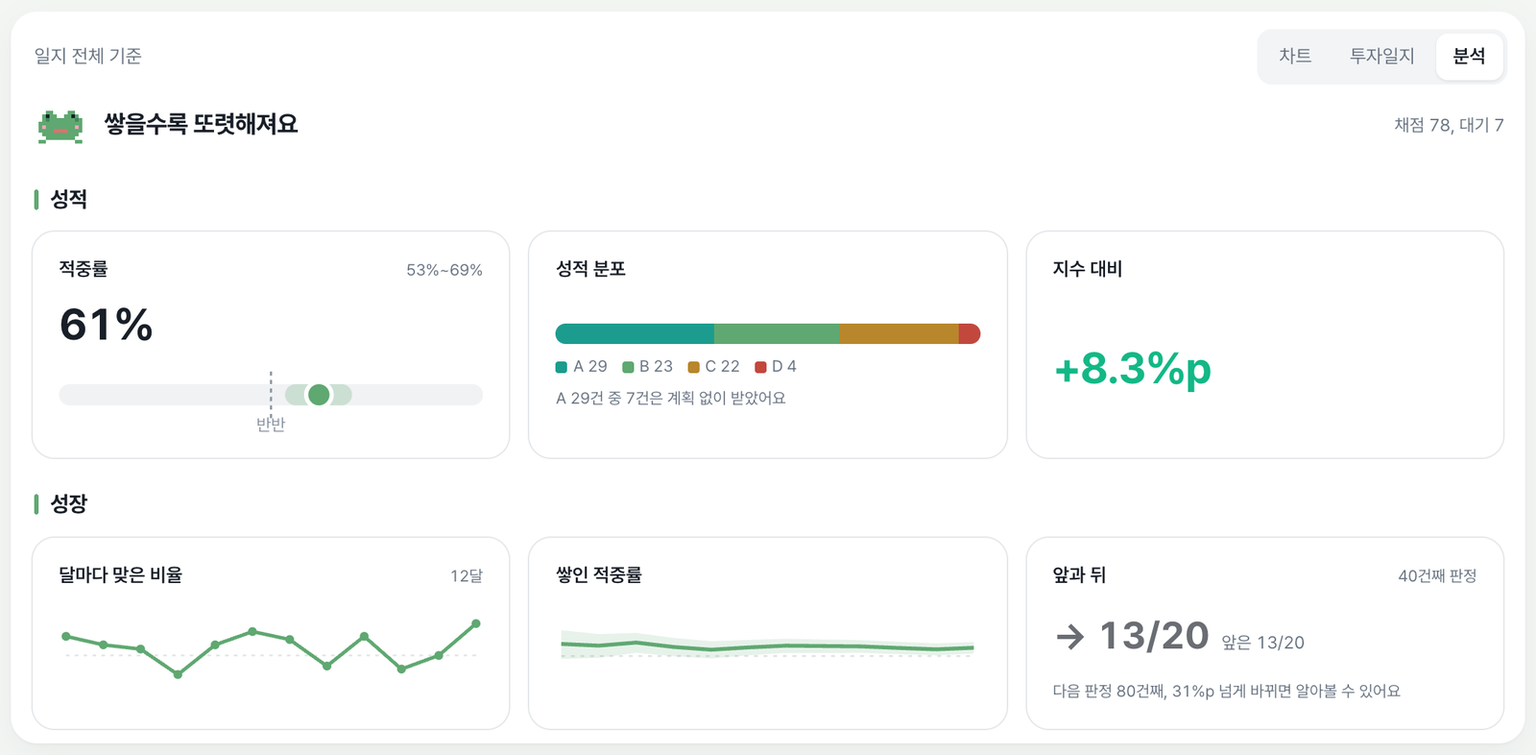
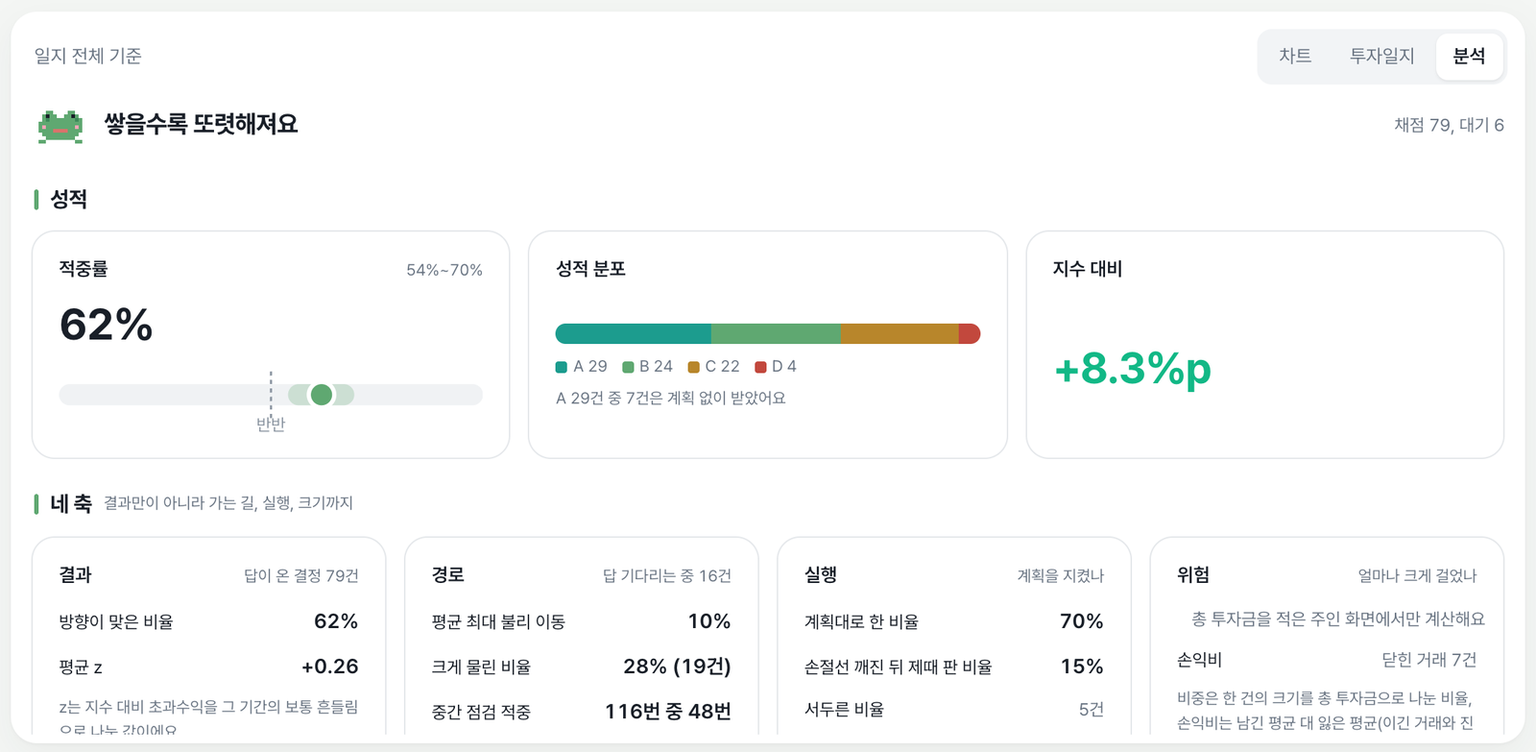
AI 분류를 표 맨 앞으로, Frog log 상세페이지에 모델 구축 섹션 추가, 무효 수치 교체

diff --git a/docs/index.html b/docs/index.html
@@ -509,6 +509,51 @@ body[data-view="frog"] .back:hover{color:#3e8a5a;}
 .fv .item h4{font-family:var(--pix);font-weight:700;}
 .fv .item strong{color:#3e8a5a;}
 body[data-view="frog"] footer{border-top-color:#dfe6e0;}
+/* Frog log 모델 구축 도식 */
+.fsec{margin-top:var(--s16);}
+.fsec > .fh{font-family:var(--pix);font-weight:700;font-size:26px;color:#191f28;letter-spacing:0;line-height:1.35;margin:0 0 var(--s2);}
+.fsec > .fsub{color:var(--g600);margin:0 0 var(--s6);font-size:15.5px;}
+.farch{display:grid;gap:10px;}
+.farch > div{display:grid;grid-template-columns:44px 170px 1fr;align-items:center;gap:var(--s4);
+  background:#fff;border:2px solid #dfe6e0;border-radius:12px;padding:14px 18px;box-shadow:0 3px 0 #e3ebe4;position:relative;}
+.farch > div + div::before{content:"";position:absolute;left:39px;top:-12px;width:2px;height:12px;background:#b9cfbf;}
+.farch .n{font-family:var(--pix);font-weight:700;font-size:15px;color:#fff;background:#5fa871;border-radius:8px;
+  width:36px;height:36px;display:flex;align-items:center;justify-content:center;box-shadow:0 3px 0 #3e8a5a;}
+.farch .t{font-weight:800;color:#191f28;font-size:16px;line-height:1.35;}
+.farch .t small{display:block;font-weight:600;color:#3e8a5a;font-size:12px;margin-top:2px;}
+.farch .d{color:var(--g700);font-size:14.5px;line-height:1.6;}
+.farch .d b{color:#191f28;}
+.fspec{width:100%;border-collapse:separate;border-spacing:0;background:#fff;border:2px solid #dfe6e0;border-radius:12px;overflow:hidden;font-size:14px;}
+.fspec th{background:#e8f3ec;color:#3e8a5a;text-align:left;font-weight:800;padding:11px 14px;font-size:13px;}
+.fspec td{padding:12px 14px;border-top:1px solid #edf2ee;color:var(--g700);vertical-align:top;line-height:1.55;}
+.fspec td:first-child{font-weight:800;color:#191f28;white-space:nowrap;}
+.fspec code{font-family:var(--mono);font-size:12px;background:#f4f6f4;color:#3e8a5a;padding:1px 6px;border-radius:5px;}
+.fwrap{overflow-x:auto;}
+.fproc{display:grid;grid-template-columns:repeat(auto-fit,minmax(150px,1fr));gap:10px;counter-reset:fp;}
+.fproc > div{background:#fff;border:2px solid #dfe6e0;border-radius:12px;padding:14px 16px;counter-increment:fp;}
+.fproc > div::before{content:counter(fp,decimal-leading-zero);display:block;font-family:var(--pix);font-weight:700;color:#5fa871;font-size:14px;margin-bottom:6px;}
+.fproc b{display:block;color:#191f28;font-size:15px;margin-bottom:4px;}
+.fproc span{display:block;color:var(--g600);font-size:13px;line-height:1.5;}
+.fbar{display:grid;gap:12px;}
+.fbar > div{display:grid;grid-template-columns:200px 1fr;gap:var(--s4);align-items:center;font-size:14px;}
+.fbar .lab{color:var(--g700);font-weight:600;line-height:1.4;}
+.fbar .lab small{display:block;color:var(--g500);font-weight:500;font-size:12px;}
+.fbar .fb-tr{display:grid;gap:5px;}
+.fbar .fb-row{display:grid;grid-template-columns:1fr 64px;align-items:center;gap:10px;}
+.fbar .fb-bx{height:14px;border-radius:4px;background:#f0f2f0;overflow:hidden;}
+.fbar .fb-bx i{display:block;height:100%;border-radius:4px;}
+.fbar .bef i{background:#d9736b;} .fbar .aft i{background:#5fa871;}
+.fbar .fb-row em{font-style:normal;font-weight:800;font-size:13px;text-align:right;font-variant-numeric:tabular-nums;}
+.fbar .bef em{color:#b25650;} .fbar .aft em{color:#3e8a5a;}
+.flegend{display:flex;gap:var(--s4);font-size:12.5px;color:var(--g600);margin-top:var(--s3);}
+.flegend i{display:inline-block;width:10px;height:10px;border-radius:3px;margin-right:6px;vertical-align:-1px;}
+.fref{display:flex;flex-wrap:wrap;gap:8px;margin-top:var(--s4);}
+.fref span{font-size:12.5px;color:#3e8a5a;background:#e8f3ec;border-radius:999px;padding:5px 12px;font-weight:600;}
+@media (max-width:720px){
+  .farch > div{grid-template-columns:40px 1fr;}
+  .farch .d{grid-column:1 / -1;}
+  .fbar > div{grid-template-columns:1fr;}
+}
 @media print{.fshot .fframe{box-shadow:none;}}
 
 .gv{position:relative;}
@@ -903,16 +948,22 @@ body.printing #v-codex{background:#0d0d0e;color:#d7d3cc;}
       <span class="lab">전체 프로젝트<em>마케팅부터 직접 만든 도구까지</em></span>
       <div class="flt" role="tablist">
         <button class="on" data-cat="all">전체 (20)</button>
+        <button data-cat="ai">AI (7)</button>
         <button data-cat="mkt">Marketing (8)</button>
         <button data-cat="op">Operation (3)</button>
         <button data-cat="evt">Event (1)</button>
         <button data-cat="dt">Data (1)</button>
-        <button data-cat="ai">AI (7)</button>
       </div>
       <div class="tw rise">
         <table class="plist">
           <thead><tr><th>프로젝트</th><th>분류</th><th>요약</th></tr></thead>
           <tbody>
+            <tr data-cat="ai" data-link="#/frog"><td class="k">투자 일지 서비스 (Frog log)</td><td><span class="pc ai">AI</span></td><td>마음까지 적는 투자 일지, 차트/일지/분석 화면 제공</td></tr>
+            <tr data-cat="ai" data-link="#/game"><td class="k">히스토리 판타지 리그</td><td><span class="pc ai">AI</span></td><td>웹게임 1인 제작, 인물 611명, 검사기 53개</td></tr>
+            <tr data-cat="ai" data-link="#/tools"><td class="k">마케팅 데이터 도구</td><td><span class="pc ai">AI</span></td><td>트윗 수집부터 검증까지 주간 7단계 자동화</td></tr>
+            <tr data-cat="ai" data-link="#/net"><td class="k">팀 운영 인트라넷</td><td><span class="pc ai">AI</span></td><td>화면 13개, 접근 정책 84개, 역할 3종 권한</td></tr>
+            <tr data-cat="ai" data-link="#/codex"><td class="k">Codex 플러그인 3종</td><td><span class="pc ai">AI</span></td><td>기업별 실무 도구 3종, 공개 자료만으로 문제 정의</td></tr>
+            <tr data-cat="ai" data-link="#/hub"><td class="k">AI 작업 관리 대시보드</td><td><span class="pc ai">AI</span></td><td>작업 기록 자동 수집, 24시간 무인 갱신</td></tr>
             <tr data-cat="mkt" data-link="#/case-auction"><td class="k">런칭 경매 캠페인</td><td><span class="pc mkt">Marketing</span></td><td>비공개 입찰로 가격 기준선을 세운 뒤 공개 판매, 단일 매출 46억</td></tr>
             <tr data-cat="mkt" data-link="#/career"><td class="k">토큰 KOL 캠페인</td><td><span class="pc mkt">Marketing</span></td><td>회차 단위 테스트로 KOL 믹스 최적화, 코드 사용률 94%</td></tr>
             <tr data-cat="mkt" data-link="#/case-minini"><td class="k">게임 연계 캠페인</td><td><span class="pc mkt">Marketing</span></td><td>인앱 유입 동선 설계로 글로벌 500만, 최종 전환 50만</td></tr>
@@ -926,12 +977,6 @@ body.printing #v-codex{background:#0d0d0e;color:#d7d3cc;}
             <tr data-cat="op" data-link="#/career"><td class="k">커뮤니티 구축과 운영</td><td><span class="pc op">Operation</span></td><td>X 5개 외에도 디스코드/텔레그램 커뮤니티 운영 및 설계</td></tr>
             <tr data-cat="evt" data-link="#/career"><td class="k">오프라인 행사 3년 연속 기획</td><td><span class="pc evt">Event</span></td><td>3년 연속 자체 기획, 현장 참여 데이터 16K 확보</td></tr>
             <tr data-cat="dt" data-link="#/tools"><td class="k">측정 환경 구축</td><td><span class="pc dt">Data</span></td><td>Redash와 GA 추적 설계, 캠페인별 UTM 체계</td></tr>
-            <tr data-cat="ai" data-link="#/frog"><td class="k">투자 일지 서비스 (Frog log)</td><td><span class="pc ai">AI</span></td><td>마음까지 적는 투자 일지, 차트/일지/분석 화면 제공</td></tr>
-            <tr data-cat="ai" data-link="#/game"><td class="k">히스토리 판타지 리그</td><td><span class="pc ai">AI</span></td><td>웹게임 1인 제작, 인물 611명, 검사기 53개</td></tr>
-            <tr data-cat="ai" data-link="#/tools"><td class="k">마케팅 데이터 도구</td><td><span class="pc ai">AI</span></td><td>트윗 수집부터 검증까지 주간 7단계 자동화</td></tr>
-            <tr data-cat="ai" data-link="#/net"><td class="k">팀 운영 인트라넷</td><td><span class="pc ai">AI</span></td><td>화면 13개, 접근 정책 84개, 역할 3종 권한</td></tr>
-            <tr data-cat="ai" data-link="#/codex"><td class="k">Codex 플러그인 3종</td><td><span class="pc ai">AI</span></td><td>기업별 실무 도구 3종, 공개 자료만으로 문제 정의</td></tr>
-            <tr data-cat="ai" data-link="#/hub"><td class="k">AI 작업 관리 대시보드</td><td><span class="pc ai">AI</span></td><td>작업 기록 자동 수집, 24시간 무인 갱신</td></tr>
             </tbody>
         </table>
       </div>
@@ -1366,7 +1411,7 @@ body.printing #v-codex{background:#0d0d0e;color:#d7d3cc;}
     <img class="mascots" src="assets/frog-mascots.png" alt="마음에 따라 옷이 바뀌는 청개구리 마스코트 10종">
     <span class="kk"><i></i>해커톤 출품작, 2026</span>
     <h2>투자 일지 서비스 <em>(Frog log)</em></h2>
-    <p class="intro" style="color:var(--g600);max-width:56ch;">투자자는 자기 감정이 수익을 얼마나 깎는지 모릅니다. 마음을 한 줄로 적으면 시장이 사후에 채점하고, 쌓인 기록으로 <strong>나를 하나의 전략처럼 검증</strong>합니다. 기획부터 배포까지 혼자 만들었습니다.</p>
+    <p class="intro" style="color:var(--g600);max-width:58ch;">투자자는 자기 감정이 수익을 얼마나 깎는지 모릅니다. 마음을 한 줄로 적으면 시장이 사후에 채점하고, 쌓인 기록으로 <strong>나를 하나의 전략처럼 검증</strong>합니다. 기획, 분석 모델, 화면, 배포까지 혼자 만들었습니다.</p>
 
     <div class="fshots">
       <div class="fshot rise">
@@ -1381,7 +1426,7 @@ body.printing #v-codex{background:#0d0d0e;color:#d7d3cc;}
       </div>
       <div class="fshot rise">
         <h3 class="ftag">분석</h3>
-        <p>적중률, 성적 분포, 지수 대비, 성장 흐름을 봅니다. 기록이 충분히 쌓였을 때만 판정을 말합니다.</p>
+        <p>적중률과 지수 대비 성적에 더해 결과, 경로, 실행, 위험 네 축으로 결정을 나눠 봅니다. 기록이 충분할 때만 판정을 말합니다.</p>
         <div class="fframe"><img src="assets/frog-analysis.png" alt="분석 화면"></div>
       </div>
     </div>
@@ -1396,15 +1441,82 @@ body.printing #v-codex{background:#0d0d0e;color:#d7d3cc;}
       <p>결정하는 날 한 줄만 적게 하면 마음이 편집되기 전에 남습니다. 채점을 내가 아니라 시장이 하면 자기 합리화가 끼어들 틈이 없습니다. 그래서 입력은 <strong>한 줄</strong>로 줄이고, 채점은 <strong>보유기간이 끝난 뒤 시세와 지수</strong>로 하게 했습니다. 계획을 적어두면 기다리던 가격이 실제로 왔는지도 시세로 판정합니다.</p>
     </div>
 
-    <div class="item rise">
-      <h4>검증</h4>
-      <p>가장 경계한 건 통계가 우연을 경향이라고 말하는 일이었습니다. 아무 의미 없는 무작위 기록 960건을 넣자 "경향"이라는 말이 10.2% 나왔습니다. 칸마다 20건이 모이기 전엔 건수만 보여주고, 여러 칸을 한꺼번에 볼 때 생기는 착각까지 보정해 <strong>1.5%로</strong> 낮췄습니다.</p>
-      <div class="fsteps nb rise">
-        <div><b>0곳</b><span class="fl-t">판정을 멈추는 앱</span><span class="fl-d">조사한 매매일지 앱 7곳 중 기록이 모자라면 결론을 보류하는 곳</span></div>
-        <div><b>20건</b><span class="fl-t">판정 시작</span><span class="fl-d">그 전까지는 건수만 보여주고 결론을 말하지 않습니다</span></div>
-        <div><b>1.5%</b><span class="fl-t">거짓 경향</span><span class="fl-d">무작위 기록 960건 기준. 고치기 전 10.2%</span></div>
+    <!-- 모델 구축 -->
+    <section class="fsec rise">
+      <h3 class="fh">분석 모델은 이렇게 만들었습니다</h3>
+      <p class="fsub">사용자 화면 뒤에서 외부 AI를 부르지 않습니다. 해석, 채점, 분석을 전부 <strong>규칙과 통계로 직접 설계</strong>했고, Claude Code는 설계, 리서치, 구현, 검토 도구로 썼습니다.</p>
+      <div class="fproc">
+        <div><b>문제 정렬</b><span>만들기 전에 제품 문장, 범위, 성공 기준을 설계 문서로 먼저 고정</span></div>
+        <div><b>리서치 22건</b><span>데이터 소스, 채점식, 행동 재무 논문, 경쟁 앱을 1차 출처로 조사</span></div>
+        <div><b>수식 대조</b><span>논문 원문 수식과 한 줄씩 맞추고 스크립트로 다시 계산</span></div>
+        <div><b>구현과 시험</b><span>모델마다 정답 대조 시험을 붙여 679개 시험이 계산을 지킴</span></div>
+        <div><b>반박 검토</b><span>만든 쪽과 다른 방식으로 결함을 찾는 반박자 검토를 반영한 커밋 18개</span></div>
       </div>
-    </div>
+    </section>
+
+    <section class="fsec rise">
+      <h3 class="fh">엔진 흐름 6단계</h3>
+      <p class="fsub">한 줄 기록이 들어와서 문장 하나가 나가기까지의 흐름입니다.</p>
+      <div class="farch">
+        <div><span class="n">1</span><span class="t">해석<small>규칙 파서</small></span><span class="d">한국어 한 줄에서 종목, 행동, 날짜, 가격, 수량, 보유기간, 목표가와 손절가, 계획성, <b>마음 56개 낱말</b>을 강도까지 뽑습니다.</span></div>
+        <div><span class="n">2</span><span class="t">채점<small>시장이 매기는 성적</small></span><span class="d">사용자가 정한 보유기간을 창으로 삼아 <b>지수 대비 초과수익을 변동성으로 나눈 z</b>로 채점합니다. 평균단가 장부로 매수와 매도를 짝짓고, 결과와 계획 준수를 나눠 A부터 D까지 매깁니다.</span></div>
+        <div><span class="n">3</span><span class="t">행동<small>매매 성격</small></span><span class="d">추격매수, 패닉매도, 처분효과, 손실 뒤 과열(틸트), 감정별 매수 크기, 마음과 행동 교차표, 마음 습관 6축을 봅니다.</span></div>
+        <div><span class="n">4</span><span class="t">성과<small>퀀트 지표</small></span><span class="d">창 길이가 제각각인 기록을 한 눈금으로 맞춘 뒤 <b>샤프, 소르티노, 알파와 베타, 최대 낙폭</b>을 냅니다. 창이 겹치는 만큼 유효 표본을 줄여 계산합니다.</span></div>
+        <div><span class="n">5</span><span class="t">성장<small>나아지고 있나</small></span><span class="d">기록이 20, 40, 80건처럼 두 배가 되는 시점에만 앞 절반과 뒤 절반을 비교합니다. 매번 들여다보면 우연이 성장처럼 보이기 때문입니다.</span></div>
+        <div><span class="n">6</span><span class="t">표현<small>말해도 되는 것만</small></span><span class="d">통계 기준을 넘을 때만 문장이 나옵니다. 그 전엔 "10번 중 7번"처럼 건수만 보여주고, 지시하는 말투는 시험으로 막습니다.</span></div>
+      </div>
+    </section>
+
+    <section class="fsec rise">
+      <h3 class="fh">모델 세 겹</h3>
+      <p class="fsub">기록이 적은 첫날부터 쓸 수 있어야 하고, 기록이 쌓일수록 그 사람에게 맞춰져야 합니다.</p>
+      <div class="fproc">
+        <div><b>규칙</b><span>논문과 시장 수치로 정한 기준값. 기록 1건부터 작동</span></div>
+        <div><b>통계</b><span>사람마다 사후분포를 갱신. 오래된 기록은 조금씩 덜 반영</span></div>
+        <div><b>학습</b><span>사용자 능력과 계획 난이도를 함께 추정하는 모델. 야간에만 돌고, 승격 심판을 통과하기 전엔 화면에 나가지 않음</span></div>
+      </div>
+      <div class="fwrap" style="margin-top:var(--s6);">
+        <table class="fspec">
+          <thead><tr><th>모델</th><th>방법</th><th>근거</th></tr></thead>
+          <tbody>
+            <tr><td>적중률</td><td>표본이 적으면 반반에서 출발하는 <code>Beta(2,2)</code> 사전분포와 80% 구간. 3건 미만 숨김, 10건부터 경향</td><td>Agresti &amp; Coull 1998</td></tr>
+            <tr><td>처분효과</td><td>평균단가 기준으로 이익 매도 비율과 손실 매도 비율의 차이</td><td>Odean 1998</td></tr>
+            <tr><td>과다거래</td><td>월별 결정 수와 성과의 관계</td><td>Barber &amp; Odean 2000</td></tr>
+            <tr><td>샤프 신뢰도</td><td>표준오차 보정과 확률적 샤프로 "참고용, 경향, 뚜렷" 구분</td><td>Lo 2002, Bailey &amp; López de Prado 2012</td></tr>
+            <tr><td>소르티노</td><td>하방편차 분모를 전체 표본으로</td><td>Sortino &amp; van der Meer</td></tr>
+            <tr><td>마음과 행동</td><td>20건 이상 칸만 후보, 거짓발견율 <code>q=0.02</code>, 효과 0.15 이상일 때만 발화</td><td>Benjamini &amp; Hochberg</td></tr>
+            <tr><td>성장 판정</td><td>판정 시점 8번 전체의 거짓 경보를 5%로 맞춘 문턱 <code>z=2.74</code></td><td>몬테카를로 보정</td></tr>
+            <tr><td>개인화</td><td>기록 적은 마음 칸은 전체 평균 쪽으로 당기는 부분 풀링</td><td>Gelman BDA3</td></tr>
+            <tr><td>학습 모델 승격</td><td>홀드아웃 50명, 450건 이상에서 로그손실 개선과 보정 유지. 통과해도 사람이 검토한 뒤 전환</td><td>Riley 2019</td></tr>
+          </tbody>
+        </table>
+      </div>
+    </section>
+
+    <section class="fsec rise">
+      <h3 class="fh">검증: 틀린 말을 하지 않도록</h3>
+      <p class="fsub">가장 경계한 건 통계가 우연을 경향이라고 말하는 일이었습니다. 아무 의미 없는 무작위 기록을 1,500번씩 넣어, <strong>"경향"이라는 말이 6%를 넘게 나오면 시험이 실패하도록</strong> 걸어 두었습니다.</p>
+      <div class="fbar">
+        <div><span class="lab">무작위 기록 960건<small>마음과 행동 교차표</small></span>
+          <span class="fb-tr">
+            <span class="fb-row bef"><span class="fb-bx"><i style="width:67%"></i></span><em>6.7%</em></span>
+            <span class="fb-row aft"><span class="fb-bx"><i style="width:34%"></i></span><em>3.4%</em></span>
+          </span></div>
+      </div>
+      <div class="flegend"><span><i style="background:#d9736b"></i>거짓발견율 기준 0.05</span><span><i style="background:#5fa871"></i>0.02로 조인 뒤</span><span>막대 끝 = 10%</span></div>
+      <div class="fsteps nb rise" style="margin-top:var(--s8);">
+        <div><b>0~4%</b><span class="fl-t">거짓 경향</span><span class="fl-d">무작위 기록 240건부터 1,920건까지, 오늘 코드로 다시 잰 값. 기준 6% 이하</span></div>
+        <div><b>20건</b><span class="fl-t">판정 시작</span><span class="fl-d">그 전까지는 건수만 보여주고 결론을 말하지 않습니다</span></div>
+        <div><b>0곳</b><span class="fl-t">판정을 멈추는 앱</span><span class="fl-d">조사한 매매일지 앱 7곳 중 기록이 모자라면 결론을 보류하는 곳</span></div>
+      </div>
+      <div class="item" style="border-bottom:0;">
+        <h4>내 시험도 의심했습니다</h4>
+        <p>다른 모델을 만들다가 <strong>시험용 난수가 같은 기록을 되풀이하는 결함</strong>을 찾았습니다. 그 결과를 무효로 돌리고 난수를 바꿔 다시 쟀고, 기준을 넘는 칸이 나와 판정 문턱을 한 단계 더 조였습니다. 학습 모델도 합성 투자자 200명으로 시험해 능력을 되찾는 정도(상관 0.854)와 80% 구간이 실제로 80% 안팎을 담는지(0.871)를 확인했고, 일부러 망친 모델은 시험에서 떨어지는지까지 봤습니다.</p>
+        <div class="fref">
+          <span>Odean 1998</span><span>Barber &amp; Odean 2000</span><span>Lo 2002</span><span>Bailey &amp; López de Prado 2012</span><span>Sortino</span><span>Agresti &amp; Coull 1998</span><span>Benjamini &amp; Hochberg</span><span>Tversky &amp; Kahneman 1992</span><span>Gelman BDA3</span><span>Riley 2019</span>
+        </div>
+      </div>
+    </section>
   </div>
   <footer><div class="wrap">전동현 / eastboy_12@naver.com</div></footer>
 </div>

diff --git a/page.src.html b/page.src.html
@@ -489,6 +489,51 @@ body[data-view="frog"] .back:hover{color:#3e8a5a;}
 .fv .item h4{font-family:var(--pix);font-weight:700;}
 .fv .item strong{color:#3e8a5a;}
 body[data-view="frog"] footer{border-top-color:#dfe6e0;}
+/* Frog log 모델 구축 도식 */
+.fsec{margin-top:var(--s16);}
+.fsec > .fh{font-family:var(--pix);font-weight:700;font-size:26px;color:#191f28;letter-spacing:0;line-height:1.35;margin:0 0 var(--s2);}
+.fsec > .fsub{color:var(--g600);margin:0 0 var(--s6);font-size:15.5px;}
+.farch{display:grid;gap:10px;}
+.farch > div{display:grid;grid-template-columns:44px 170px 1fr;align-items:center;gap:var(--s4);
+  background:#fff;border:2px solid #dfe6e0;border-radius:12px;padding:14px 18px;box-shadow:0 3px 0 #e3ebe4;position:relative;}
+.farch > div + div::before{content:"";position:absolute;left:39px;top:-12px;width:2px;height:12px;background:#b9cfbf;}
+.farch .n{font-family:var(--pix);font-weight:700;font-size:15px;color:#fff;background:#5fa871;border-radius:8px;
+  width:36px;height:36px;display:flex;align-items:center;justify-content:center;box-shadow:0 3px 0 #3e8a5a;}
+.farch .t{font-weight:800;color:#191f28;font-size:16px;line-height:1.35;}
+.farch .t small{display:block;font-weight:600;color:#3e8a5a;font-size:12px;margin-top:2px;}
+.farch .d{color:var(--g700);font-size:14.5px;line-height:1.6;}
+.farch .d b{color:#191f28;}
+.fspec{width:100%;border-collapse:separate;border-spacing:0;background:#fff;border:2px solid #dfe6e0;border-radius:12px;overflow:hidden;font-size:14px;}
+.fspec th{background:#e8f3ec;color:#3e8a5a;text-align:left;font-weight:800;padding:11px 14px;font-size:13px;}
+.fspec td{padding:12px 14px;border-top:1px solid #edf2ee;color:var(--g700);vertical-align:top;line-height:1.55;}
+.fspec td:first-child{font-weight:800;color:#191f28;white-space:nowrap;}
+.fspec code{font-family:var(--mono);font-size:12px;background:#f4f6f4;color:#3e8a5a;padding:1px 6px;border-radius:5px;}
+.fwrap{overflow-x:auto;}
+.fproc{display:grid;grid-template-columns:repeat(auto-fit,minmax(150px,1fr));gap:10px;counter-reset:fp;}
+.fproc > div{background:#fff;border:2px solid #dfe6e0;border-radius:12px;padding:14px 16px;counter-increment:fp;}
+.fproc > div::before{content:counter(fp,decimal-leading-zero);display:block;font-family:var(--pix);font-weight:700;color:#5fa871;font-size:14px;margin-bottom:6px;}
+.fproc b{display:block;color:#191f28;font-size:15px;margin-bottom:4px;}
+.fproc span{display:block;color:var(--g600);font-size:13px;line-height:1.5;}
+.fbar{display:grid;gap:12px;}
+.fbar > div{display:grid;grid-template-columns:200px 1fr;gap:var(--s4);align-items:center;font-size:14px;}
+.fbar .lab{color:var(--g700);font-weight:600;line-height:1.4;}
+.fbar .lab small{display:block;color:var(--g500);font-weight:500;font-size:12px;}
+.fbar .fb-tr{display:grid;gap:5px;}
+.fbar .fb-row{display:grid;grid-template-columns:1fr 64px;align-items:center;gap:10px;}
+.fbar .fb-bx{height:14px;border-radius:4px;background:#f0f2f0;overflow:hidden;}
+.fbar .fb-bx i{display:block;height:100%;border-radius:4px;}
+.fbar .bef i{background:#d9736b;} .fbar .aft i{background:#5fa871;}
+.fbar .fb-row em{font-style:normal;font-weight:800;font-size:13px;text-align:right;font-variant-numeric:tabular-nums;}
+.fbar .bef em{color:#b25650;} .fbar .aft em{color:#3e8a5a;}
+.flegend{display:flex;gap:var(--s4);font-size:12.5px;color:var(--g600);margin-top:var(--s3);}
+.flegend i{display:inline-block;width:10px;height:10px;border-radius:3px;margin-right:6px;vertical-align:-1px;}
+.fref{display:flex;flex-wrap:wrap;gap:8px;margin-top:var(--s4);}
+.fref span{font-size:12.5px;color:#3e8a5a;background:#e8f3ec;border-radius:999px;padding:5px 12px;font-weight:600;}
+@media (max-width:720px){
+  .farch > div{grid-template-columns:40px 1fr;}
+  .farch .d{grid-column:1 / -1;}
+  .fbar > div{grid-template-columns:1fr;}
+}
 @media print{.fshot .fframe{box-shadow:none;}}
 
 .gv{position:relative;}
@@ -883,16 +928,22 @@ body.printing #v-codex{background:#0d0d0e;color:#d7d3cc;}
       <span class="lab">전체 프로젝트<em>마케팅부터 직접 만든 도구까지</em></span>
       <div class="flt" role="tablist">
         <button class="on" data-cat="all">전체 (20)</button>
+        <button data-cat="ai">AI (7)</button>
         <button data-cat="mkt">Marketing (8)</button>
         <button data-cat="op">Operation (3)</button>
         <button data-cat="evt">Event (1)</button>
         <button data-cat="dt">Data (1)</button>
-        <button data-cat="ai">AI (7)</button>
       </div>
       <div class="tw rise">
         <table class="plist">
           <thead><tr><th>프로젝트</th><th>분류</th><th>요약</th></tr></thead>
           <tbody>
+            <tr data-cat="ai" data-link="#/frog"><td class="k">투자 일지 서비스 (Frog log)</td><td><span class="pc ai">AI</span></td><td>마음까지 적는 투자 일지, 차트/일지/분석 화면 제공</td></tr>
+            <tr data-cat="ai" data-link="#/game"><td class="k">히스토리 판타지 리그</td><td><span class="pc ai">AI</span></td><td>웹게임 1인 제작, 인물 611명, 검사기 53개</td></tr>
+            <tr data-cat="ai" data-link="#/tools"><td class="k">마케팅 데이터 도구</td><td><span class="pc ai">AI</span></td><td>트윗 수집부터 검증까지 주간 7단계 자동화</td></tr>
+            <tr data-cat="ai" data-link="#/net"><td class="k">팀 운영 인트라넷</td><td><span class="pc ai">AI</span></td><td>화면 13개, 접근 정책 84개, 역할 3종 권한</td></tr>
+            <tr data-cat="ai" data-link="#/codex"><td class="k">Codex 플러그인 3종</td><td><span class="pc ai">AI</span></td><td>기업별 실무 도구 3종, 공개 자료만으로 문제 정의</td></tr>
+            <tr data-cat="ai" data-link="#/hub"><td class="k">AI 작업 관리 대시보드</td><td><span class="pc ai">AI</span></td><td>작업 기록 자동 수집, 24시간 무인 갱신</td></tr>
             <tr data-cat="mkt" data-link="#/case-auction"><td class="k">런칭 경매 캠페인</td><td><span class="pc mkt">Marketing</span></td><td>비공개 입찰로 가격 기준선을 세운 뒤 공개 판매, 단일 매출 46억</td></tr>
             <tr data-cat="mkt" data-link="#/career"><td class="k">토큰 KOL 캠페인</td><td><span class="pc mkt">Marketing</span></td><td>회차 단위 테스트로 KOL 믹스 최적화, 코드 사용률 94%</td></tr>
             <tr data-cat="mkt" data-link="#/case-minini"><td class="k">게임 연계 캠페인</td><td><span class="pc mkt">Marketing</span></td><td>인앱 유입 동선 설계로 글로벌 500만, 최종 전환 50만</td></tr>
@@ -906,12 +957,6 @@ body.printing #v-codex{background:#0d0d0e;color:#d7d3cc;}
             <tr data-cat="op" data-link="#/career"><td class="k">커뮤니티 구축과 운영</td><td><span class="pc op">Operation</span></td><td>X 5개 외에도 디스코드/텔레그램 커뮤니티 운영 및 설계</td></tr>
             <tr data-cat="evt" data-link="#/career"><td class="k">오프라인 행사 3년 연속 기획</td><td><span class="pc evt">Event</span></td><td>3년 연속 자체 기획, 현장 참여 데이터 16K 확보</td></tr>
             <tr data-cat="dt" data-link="#/tools"><td class="k">측정 환경 구축</td><td><span class="pc dt">Data</span></td><td>Redash와 GA 추적 설계, 캠페인별 UTM 체계</td></tr>
-            <tr data-cat="ai" data-link="#/frog"><td class="k">투자 일지 서비스 (Frog log)</td><td><span class="pc ai">AI</span></td><td>마음까지 적는 투자 일지, 차트/일지/분석 화면 제공</td></tr>
-            <tr data-cat="ai" data-link="#/game"><td class="k">히스토리 판타지 리그</td><td><span class="pc ai">AI</span></td><td>웹게임 1인 제작, 인물 611명, 검사기 53개</td></tr>
-            <tr data-cat="ai" data-link="#/tools"><td class="k">마케팅 데이터 도구</td><td><span class="pc ai">AI</span></td><td>트윗 수집부터 검증까지 주간 7단계 자동화</td></tr>
-            <tr data-cat="ai" data-link="#/net"><td class="k">팀 운영 인트라넷</td><td><span class="pc ai">AI</span></td><td>화면 13개, 접근 정책 84개, 역할 3종 권한</td></tr>
-            <tr data-cat="ai" data-link="#/codex"><td class="k">Codex 플러그인 3종</td><td><span class="pc ai">AI</span></td><td>기업별 실무 도구 3종, 공개 자료만으로 문제 정의</td></tr>
-            <tr data-cat="ai" data-link="#/hub"><td class="k">AI 작업 관리 대시보드</td><td><span class="pc ai">AI</span></td><td>작업 기록 자동 수집, 24시간 무인 갱신</td></tr>
             </tbody>
         </table>
       </div>
@@ -1346,7 +1391,7 @@ body.printing #v-codex{background:#0d0d0e;color:#d7d3cc;}
     <img class="mascots" src="__IMG_FROGM__" alt="마음에 따라 옷이 바뀌는 청개구리 마스코트 10종">
     <span class="kk"><i></i>해커톤 출품작, 2026</span>
     <h2>투자 일지 서비스 <em>(Frog log)</em></h2>
-    <p class="intro" style="color:var(--g600);max-width:56ch;">투자자는 자기 감정이 수익을 얼마나 깎는지 모릅니다. 마음을 한 줄로 적으면 시장이 사후에 채점하고, 쌓인 기록으로 <strong>나를 하나의 전략처럼 검증</strong>합니다. 기획부터 배포까지 혼자 만들었습니다.</p>
+    <p class="intro" style="color:var(--g600);max-width:58ch;">투자자는 자기 감정이 수익을 얼마나 깎는지 모릅니다. 마음을 한 줄로 적으면 시장이 사후에 채점하고, 쌓인 기록으로 <strong>나를 하나의 전략처럼 검증</strong>합니다. 기획, 분석 모델, 화면, 배포까지 혼자 만들었습니다.</p>
 
     <div class="fshots">
       <div class="fshot rise">
@@ -1361,7 +1406,7 @@ body.printing #v-codex{background:#0d0d0e;color:#d7d3cc;}
       </div>
       <div class="fshot rise">
         <h3 class="ftag">분석</h3>
-        <p>적중률, 성적 분포, 지수 대비, 성장 흐름을 봅니다. 기록이 충분히 쌓였을 때만 판정을 말합니다.</p>
+        <p>적중률과 지수 대비 성적에 더해 결과, 경로, 실행, 위험 네 축으로 결정을 나눠 봅니다. 기록이 충분할 때만 판정을 말합니다.</p>
         <div class="fframe"><img src="__IMG_FROGA__" alt="분석 화면"></div>
       </div>
     </div>
@@ -1376,15 +1421,82 @@ body.printing #v-codex{background:#0d0d0e;color:#d7d3cc;}
       <p>결정하는 날 한 줄만 적게 하면 마음이 편집되기 전에 남습니다. 채점을 내가 아니라 시장이 하면 자기 합리화가 끼어들 틈이 없습니다. 그래서 입력은 <strong>한 줄</strong>로 줄이고, 채점은 <strong>보유기간이 끝난 뒤 시세와 지수</strong>로 하게 했습니다. 계획을 적어두면 기다리던 가격이 실제로 왔는지도 시세로 판정합니다.</p>
     </div>
 
-    <div class="item rise">
-      <h4>검증</h4>
-      <p>가장 경계한 건 통계가 우연을 경향이라고 말하는 일이었습니다. 아무 의미 없는 무작위 기록 960건을 넣자 "경향"이라는 말이 10.2% 나왔습니다. 칸마다 20건이 모이기 전엔 건수만 보여주고, 여러 칸을 한꺼번에 볼 때 생기는 착각까지 보정해 <strong>1.5%로</strong> 낮췄습니다.</p>
-      <div class="fsteps nb rise">
-        <div><b>0곳</b><span class="fl-t">판정을 멈추는 앱</span><span class="fl-d">조사한 매매일지 앱 7곳 중 기록이 모자라면 결론을 보류하는 곳</span></div>
-        <div><b>20건</b><span class="fl-t">판정 시작</span><span class="fl-d">그 전까지는 건수만 보여주고 결론을 말하지 않습니다</span></div>
-        <div><b>1.5%</b><span class="fl-t">거짓 경향</span><span class="fl-d">무작위 기록 960건 기준. 고치기 전 10.2%</span></div>
+    <!-- 모델 구축 -->
+    <section class="fsec rise">
+      <h3 class="fh">분석 모델은 이렇게 만들었습니다</h3>
+      <p class="fsub">사용자 화면 뒤에서 외부 AI를 부르지 않습니다. 해석, 채점, 분석을 전부 <strong>규칙과 통계로 직접 설계</strong>했고, Claude Code는 설계, 리서치, 구현, 검토 도구로 썼습니다.</p>
+      <div class="fproc">
+        <div><b>문제 정렬</b><span>만들기 전에 제품 문장, 범위, 성공 기준을 설계 문서로 먼저 고정</span></div>
+        <div><b>리서치 22건</b><span>데이터 소스, 채점식, 행동 재무 논문, 경쟁 앱을 1차 출처로 조사</span></div>
+        <div><b>수식 대조</b><span>논문 원문 수식과 한 줄씩 맞추고 스크립트로 다시 계산</span></div>
+        <div><b>구현과 시험</b><span>모델마다 정답 대조 시험을 붙여 679개 시험이 계산을 지킴</span></div>
+        <div><b>반박 검토</b><span>만든 쪽과 다른 방식으로 결함을 찾는 반박자 검토를 반영한 커밋 18개</span></div>
       </div>
-    </div>
+    </section>
+
+    <section class="fsec rise">
+      <h3 class="fh">엔진 흐름 6단계</h3>
+      <p class="fsub">한 줄 기록이 들어와서 문장 하나가 나가기까지의 흐름입니다.</p>
+      <div class="farch">
+        <div><span class="n">1</span><span class="t">해석<small>규칙 파서</small></span><span class="d">한국어 한 줄에서 종목, 행동, 날짜, 가격, 수량, 보유기간, 목표가와 손절가, 계획성, <b>마음 56개 낱말</b>을 강도까지 뽑습니다.</span></div>
+        <div><span class="n">2</span><span class="t">채점<small>시장이 매기는 성적</small></span><span class="d">사용자가 정한 보유기간을 창으로 삼아 <b>지수 대비 초과수익을 변동성으로 나눈 z</b>로 채점합니다. 평균단가 장부로 매수와 매도를 짝짓고, 결과와 계획 준수를 나눠 A부터 D까지 매깁니다.</span></div>
+        <div><span class="n">3</span><span class="t">행동<small>매매 성격</small></span><span class="d">추격매수, 패닉매도, 처분효과, 손실 뒤 과열(틸트), 감정별 매수 크기, 마음과 행동 교차표, 마음 습관 6축을 봅니다.</span></div>
+        <div><span class="n">4</span><span class="t">성과<small>퀀트 지표</small></span><span class="d">창 길이가 제각각인 기록을 한 눈금으로 맞춘 뒤 <b>샤프, 소르티노, 알파와 베타, 최대 낙폭</b>을 냅니다. 창이 겹치는 만큼 유효 표본을 줄여 계산합니다.</span></div>
+        <div><span class="n">5</span><span class="t">성장<small>나아지고 있나</small></span><span class="d">기록이 20, 40, 80건처럼 두 배가 되는 시점에만 앞 절반과 뒤 절반을 비교합니다. 매번 들여다보면 우연이 성장처럼 보이기 때문입니다.</span></div>
+        <div><span class="n">6</span><span class="t">표현<small>말해도 되는 것만</small></span><span class="d">통계 기준을 넘을 때만 문장이 나옵니다. 그 전엔 "10번 중 7번"처럼 건수만 보여주고, 지시하는 말투는 시험으로 막습니다.</span></div>
+      </div>
+    </section>
+
+    <section class="fsec rise">
+      <h3 class="fh">모델 세 겹</h3>
+      <p class="fsub">기록이 적은 첫날부터 쓸 수 있어야 하고, 기록이 쌓일수록 그 사람에게 맞춰져야 합니다.</p>
+      <div class="fproc">
+        <div><b>규칙</b><span>논문과 시장 수치로 정한 기준값. 기록 1건부터 작동</span></div>
+        <div><b>통계</b><span>사람마다 사후분포를 갱신. 오래된 기록은 조금씩 덜 반영</span></div>
+        <div><b>학습</b><span>사용자 능력과 계획 난이도를 함께 추정하는 모델. 야간에만 돌고, 승격 심판을 통과하기 전엔 화면에 나가지 않음</span></div>
+      </div>
+      <div class="fwrap" style="margin-top:var(--s6);">
+        <table class="fspec">
+          <thead><tr><th>모델</th><th>방법</th><th>근거</th></tr></thead>
+          <tbody>
+            <tr><td>적중률</td><td>표본이 적으면 반반에서 출발하는 <code>Beta(2,2)</code> 사전분포와 80% 구간. 3건 미만 숨김, 10건부터 경향</td><td>Agresti &amp; Coull 1998</td></tr>
+            <tr><td>처분효과</td><td>평균단가 기준으로 이익 매도 비율과 손실 매도 비율의 차이</td><td>Odean 1998</td></tr>
+            <tr><td>과다거래</td><td>월별 결정 수와 성과의 관계</td><td>Barber &amp; Odean 2000</td></tr>
+            <tr><td>샤프 신뢰도</td><td>표준오차 보정과 확률적 샤프로 "참고용, 경향, 뚜렷" 구분</td><td>Lo 2002, Bailey &amp; López de Prado 2012</td></tr>
+            <tr><td>소르티노</td><td>하방편차 분모를 전체 표본으로</td><td>Sortino &amp; van der Meer</td></tr>
+            <tr><td>마음과 행동</td><td>20건 이상 칸만 후보, 거짓발견율 <code>q=0.02</code>, 효과 0.15 이상일 때만 발화</td><td>Benjamini &amp; Hochberg</td></tr>
+            <tr><td>성장 판정</td><td>판정 시점 8번 전체의 거짓 경보를 5%로 맞춘 문턱 <code>z=2.74</code></td><td>몬테카를로 보정</td></tr>
+            <tr><td>개인화</td><td>기록 적은 마음 칸은 전체 평균 쪽으로 당기는 부분 풀링</td><td>Gelman BDA3</td></tr>
+            <tr><td>학습 모델 승격</td><td>홀드아웃 50명, 450건 이상에서 로그손실 개선과 보정 유지. 통과해도 사람이 검토한 뒤 전환</td><td>Riley 2019</td></tr>
+          </tbody>
+        </table>
+      </div>
+    </section>
+
+    <section class="fsec rise">
+      <h3 class="fh">검증: 틀린 말을 하지 않도록</h3>
+      <p class="fsub">가장 경계한 건 통계가 우연을 경향이라고 말하는 일이었습니다. 아무 의미 없는 무작위 기록을 1,500번씩 넣어, <strong>"경향"이라는 말이 6%를 넘게 나오면 시험이 실패하도록</strong> 걸어 두었습니다.</p>
+      <div class="fbar">
+        <div><span class="lab">무작위 기록 960건<small>마음과 행동 교차표</small></span>
+          <span class="fb-tr">
+            <span class="fb-row bef"><span class="fb-bx"><i style="width:67%"></i></span><em>6.7%</em></span>
+            <span class="fb-row aft"><span class="fb-bx"><i style="width:34%"></i></span><em>3.4%</em></span>
+          </span></div>
+      </div>
+      <div class="flegend"><span><i style="background:#d9736b"></i>거짓발견율 기준 0.05</span><span><i style="background:#5fa871"></i>0.02로 조인 뒤</span><span>막대 끝 = 10%</span></div>
+      <div class="fsteps nb rise" style="margin-top:var(--s8);">
+        <div><b>0~4%</b><span class="fl-t">거짓 경향</span><span class="fl-d">무작위 기록 240건부터 1,920건까지, 오늘 코드로 다시 잰 값. 기준 6% 이하</span></div>
+        <div><b>20건</b><span class="fl-t">판정 시작</span><span class="fl-d">그 전까지는 건수만 보여주고 결론을 말하지 않습니다</span></div>
+        <div><b>0곳</b><span class="fl-t">판정을 멈추는 앱</span><span class="fl-d">조사한 매매일지 앱 7곳 중 기록이 모자라면 결론을 보류하는 곳</span></div>
+      </div>
+      <div class="item" style="border-bottom:0;">
+        <h4>내 시험도 의심했습니다</h4>
+        <p>다른 모델을 만들다가 <strong>시험용 난수가 같은 기록을 되풀이하는 결함</strong>을 찾았습니다. 그 결과를 무효로 돌리고 난수를 바꿔 다시 쟀고, 기준을 넘는 칸이 나와 판정 문턱을 한 단계 더 조였습니다. 학습 모델도 합성 투자자 200명으로 시험해 능력을 되찾는 정도(상관 0.854)와 80% 구간이 실제로 80% 안팎을 담는지(0.871)를 확인했고, 일부러 망친 모델은 시험에서 떨어지는지까지 봤습니다.</p>
+        <div class="fref">
+          <span>Odean 1998</span><span>Barber &amp; Odean 2000</span><span>Lo 2002</span><span>Bailey &amp; López de Prado 2012</span><span>Sortino</span><span>Agresti &amp; Coull 1998</span><span>Benjamini &amp; Hochberg</span><span>Tversky &amp; Kahneman 1992</span><span>Gelman BDA3</span><span>Riley 2019</span>
+        </div>
+      </div>
+    </section>
   </div>
   <footer><div class="wrap">전동현 / eastboy_12@naver.com</div></footer>
 </div>
